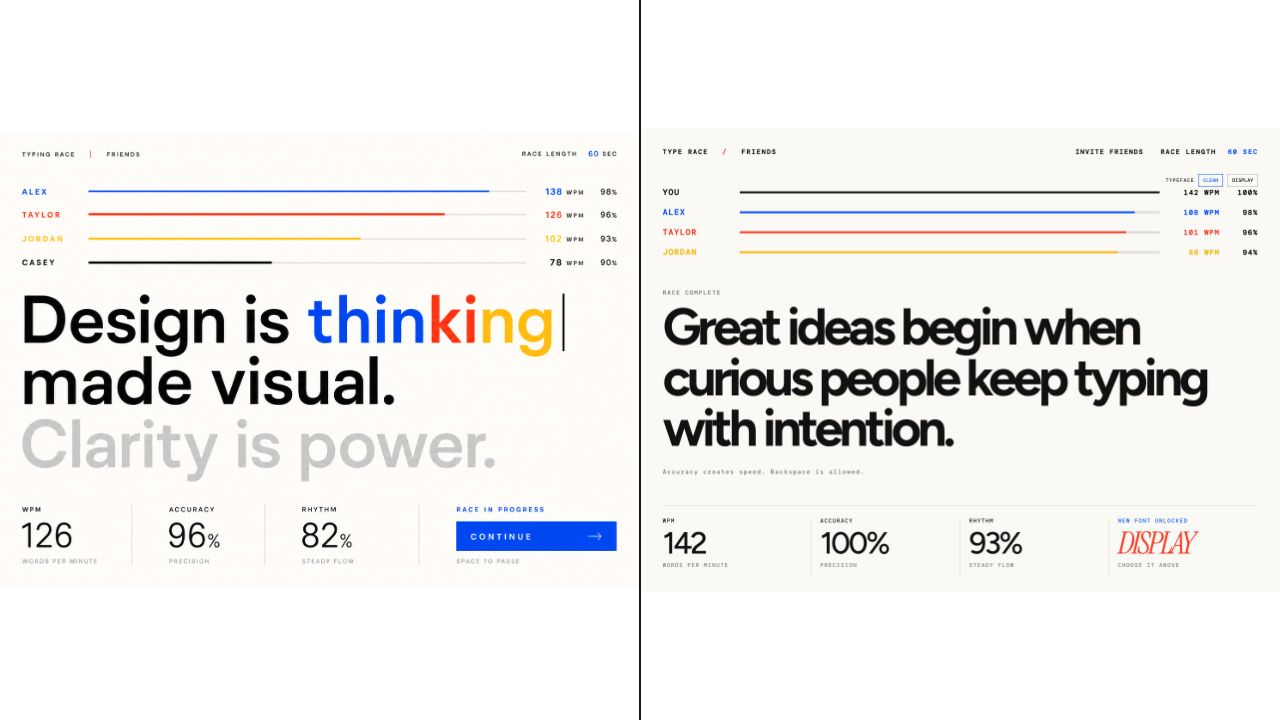
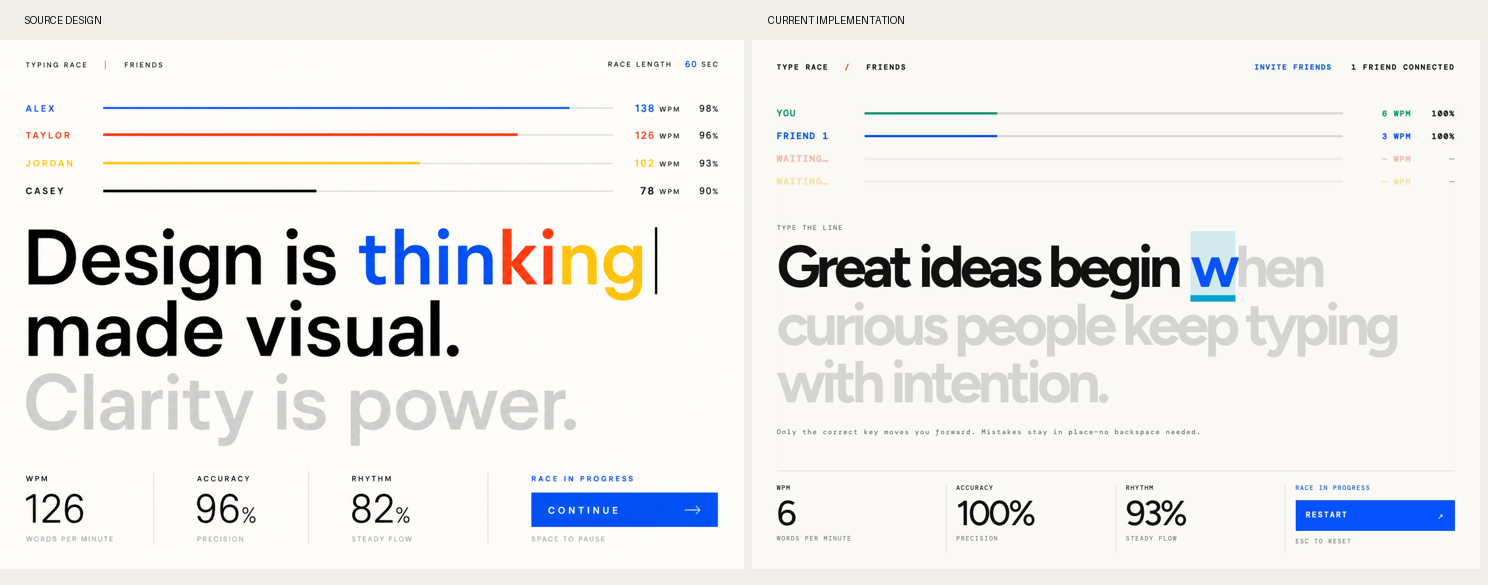
Fix mobile typing and blend overlapping racers

diff --git a/src/App.jsx b/src/App.jsx
@@ -3,7 +3,38 @@ import { Peer } from "peerjs";
 
 const COPY = "Great ideas begin when curious people keep typing with intention.";
 const MAX_FRIENDS = 3;
-const LANE_COLORS = ["blue", "red", "yellow"];
+const PLAYER_COLORS = ["#00a878", "#075cff", "#fa432a", "#f5bf00"];
+
+function hexToHsv(hex) {
+  const [r, g, b] = hex.match(/[a-f\d]{2}/gi).map((value) => parseInt(value, 16) / 255);
+  const max = Math.max(r, g, b);
+  const min = Math.min(r, g, b);
+  const delta = max - min;
+  let hue = 0;
+  if (delta) {
+    if (max === r) hue = ((g - b) / delta) % 6;
+    else if (max === g) hue = (b - r) / delta + 2;
+    else hue = (r - g) / delta + 4;
+  }
+  return { h: ((hue * 60) + 360) % 360, s: max ? delta / max : 0, v: max };
+}
+
+function hsvToHex({ h, s, v }) {
+  const chroma = v * s;
+  const section = h / 60;
+  const x = chroma * (1 - Math.abs((section % 2) - 1));
+  const [r1, g1, b1] = section < 1 ? [chroma, x, 0] : section < 2 ? [x, chroma, 0] : section < 3 ? [0, chroma, x] : section < 4 ? [0, x, chroma] : section < 5 ? [x, 0, chroma] : [chroma, 0, x];
+  const m = v - chroma;
+  return `#${[r1, g1, b1].map((channel) => Math.round((channel + m) * 255).toString(16).padStart(2, "0")).join("")}`;
+}
+
+function mixHsv(colors) {
+  if (colors.length === 1) return colors[0];
+  const values = colors.map(hexToHsv);
+  const radians = values.map(({ h }) => h * Math.PI / 180);
+  const hue = (Math.atan2(radians.reduce((sum, angle) => sum + Math.sin(angle), 0), radians.reduce((sum, angle) => sum + Math.cos(angle), 0)) * 180 / Math.PI + 360) % 360;
+  return hsvToHex({ h: hue, s: values.reduce((sum, color) => sum + color.s, 0) / values.length, v: values.reduce((sum, color) => sum + color.v, 0) / values.length });
+}
 
 function score(text, startedAt, errors) {
   const minutes = Math.max((Date.now() - startedAt) / 60000, 1 / 60000);
@@ -14,7 +45,7 @@ function score(text, startedAt, errors) {
 }
 
 function blankFriend(index) {
-  return { id: `waiting-${index}`, name: "WAITING…", progress: 0, wpm: "—", accuracy: "—", waiting: true };
+  return { id: `waiting-${index}`, name: "WAITING…", progress: 0, wpm: "—", accuracy: "—", color: PLAYER_COLORS[index + 1], waiting: true };
 }
 
 export function App() {
@@ -29,6 +60,7 @@ export function App() {
   const [friends, setFriends] = useState([]);
   const [inviteUrl, setInviteUrl] = useState(roomId ? window.location.href : "");
   const [roomStatus, setRoomStatus] = useState(roomId ? "JOINING ROOM" : "READY TO HOST");
+  const [selfColor, setSelfColor] = useState(PLAYER_COLORS[0]);
   const inputRef = useRef(null);
   const peerRef = useRef(null);
   const connectionsRef = useRef(new Map());
@@ -40,8 +72,8 @@ export function App() {
   localStateRef.current = { progress, wpm: current.wpm, accuracy: current.accuracy, finished };
 
   function hostRoster() {
-    const guests = [...connectionsRef.current.values()].map(({ id, name, state }) => ({ id, name, ...state }));
-    return [{ id: "host", name: "HOST", ...localStateRef.current }, ...guests];
+    const guests = [...connectionsRef.current.values()].map(({ id, name, color, state }) => ({ id, name, color, ...state }));
+    return [{ id: "host", name: "HOST", color: PLAYER_COLORS[0], ...localStateRef.current }, ...guests];
   }
 
   function broadcastRoster() {
@@ -67,10 +99,11 @@ export function App() {
           id: connection.peer,
           slot,
           name: `FRIEND ${slot}`,
+          color: PLAYER_COLORS[slot],
           connection,
           state: { progress: 0, wpm: 0, accuracy: 100, finished: false },
         });
-        connection.send({ type: "welcome", selfId: connection.peer });
+        connection.send({ type: "welcome", selfId: connection.peer, color: PLAYER_COLORS[slot] });
         const count = connectionsRef.current.size;
         setRoomStatus(`${count} FRIEND${count === 1 ? "" : "S"} CONNECTED`);
         broadcastRoster();
@@ -90,6 +123,7 @@ export function App() {
         }
       } else if (!isHost && message.type === "welcome") {
         selfIdRef.current = message.selfId;
+        setSelfColor(message.color);
       } else if (!isHost && message.type === "roster") {
         setFriends(message.roster.filter((racer) => racer.id !== selfIdRef.current));
       } else if (!isHost && message.type === "full") {
@@ -224,10 +258,18 @@ export function App() {
   const visibleFriends = [...friends.slice(0, MAX_FRIENDS)];
   while (visibleFriends.length < MAX_FRIENDS) visibleFriends.push(blankFriend(visibleFriends.length));
 
+  const positions = new Map();
+  function addPosition(index, color, name) {
+    const position = Math.min(COPY.length - 1, Math.max(0, index));
+    positions.set(position, [...(positions.get(position) || []), { color, name }]);
+  }
+  addPosition(typed.length, selfColor, "YOU");
+  friends.filter((friend) => !friend.waiting).forEach((friend) => addPosition(Math.round((friend.progress / 100) * COPY.length), friend.color, friend.name));
+
   return <main className={`app font-${font}`} onClick={begin}>
     <header><div className="brand">TYPE RACE <span>/</span> FRIENDS</div><div className="header-actions"><button className="text-button" data-invite-url={inviteUrl || undefined} onClick={(event) => { event.stopPropagation(); shareRoom(); }}>{copied ? "LINK COPIED" : roomId ? "COPY ROOM LINK" : "INVITE FRIENDS"}</button><div className="race-length">{roomStatus}</div></div></header>
-    <section className="raceboard" aria-label="Friend race standings"><div className="racer you"><span>YOU</span><div><i style={{ width: `${progress}%` }} /></div><b>{current.wpm || "—"} WPM</b><em>{current.accuracy}%</em></div>{visibleFriends.map((racer, index) => <div className={`racer ${LANE_COLORS[index]} ${racer.waiting ? "waiting" : ""}`} key={racer.id}><span>{racer.name}</span><div><i style={{ width: `${racer.progress}%` }} /></div><b>{racer.wpm || "—"} WPM</b><em>{racer.accuracy === "—" ? "—" : `${racer.accuracy}%`}</em></div>)}</section>
-    <section className="typing-zone" aria-label="Typing challenge"><p className="eyebrow">{finished ? "RACE COMPLETE" : startedAt ? "TYPE THE LINE" : "PRESS ANY KEY TO START"}</p><div className="copy" aria-hidden="true">{COPY.split("").map((letter, index) => { const state = index < typed.length ? "correct" : index === typed.length ? "cursor" : "future"; return <span key={`${letter}-${index}`} className={state}>{letter}</span>; })}</div><input ref={inputRef} className="typing-input" value={typed} onChange={type} onFocus={begin} aria-label="Type the displayed sentence" autoComplete="off" autoCapitalize="off" spellCheck="false" /><p className="quiet">Only the correct key moves you forward. Mistakes stay in place—no backspace needed.</p></section>
+    <section className="raceboard" aria-label="Friend race standings"><div className="racer you" style={{ "--lane": selfColor }}><span>YOU</span><div><i style={{ width: `${progress}%` }} /></div><b>{current.wpm || "—"} WPM</b><em>{current.accuracy}%</em></div>{visibleFriends.map((racer) => <div className={`racer ${racer.waiting ? "waiting" : ""}`} style={{ "--lane": racer.color }} key={racer.id}><span>{racer.name}</span><div><i style={{ width: `${racer.progress}%` }} /></div><b>{racer.wpm || "—"} WPM</b><em>{racer.accuracy === "—" ? "—" : `${racer.accuracy}%`}</em></div>)}</section>
+    <section className="typing-zone" aria-label="Typing challenge"><p className="eyebrow">{finished ? "RACE COMPLETE" : startedAt ? "TYPE THE LINE" : "PRESS ANY KEY TO START"}</p><div className="copy" aria-hidden="true">{COPY.split("").map((letter, index) => { const racersHere = positions.get(index) || []; const classes = [index < typed.length ? "correct" : "future"]; if (index === typed.length) classes.push("target"); if (index === typed.length - 1) classes.push("caret"); if (index === 0 && typed.length === 0) classes.push("cursor-start"); if (racersHere.length) classes.push("player-position"); if (racersHere.length > 1) classes.push("overlap"); return <span key={`${letter}-${index}`} className={classes.join(" ")} data-racers-here={racersHere.map(({ name }) => name).join(", ") || undefined} style={racersHere.length ? { "--position-color": mixHsv(racersHere.map(({ color }) => color)) } : undefined}>{letter}</span>; })}</div><input ref={inputRef} className="typing-input" value={typed} onChange={type} onFocus={begin} aria-label="Type the displayed sentence" autoComplete="off" autoCapitalize="off" autoCorrect="off" inputMode="text" enterKeyHint="done" spellCheck="false" /><p className="quiet">Only the correct key moves you forward. Mistakes stay in place—no backspace needed.</p></section>
     <footer><div className="metric"><small>WPM</small><strong>{current.wpm || "—"}</strong><span>WORDS PER MINUTE</span></div><div className="metric"><small>ACCURACY</small><strong>{current.accuracy}%</strong><span>PRECISION</span></div><div className="metric"><small>RHYTHM</small><strong>{startedAt ? `${Math.max(0, 93 - errors * 4)}%` : "—"}</strong><span>STEADY FLOW</span></div><div className="metric action-metric">{finished ? <><small>NEW FONT UNLOCKED</small><strong className="unlock">DISPLAY</strong><span>CHOOSE IT ABOVE</span></> : <><small>RACE IN PROGRESS</small><button onClick={(event) => { event.stopPropagation(); restart(); }}>RESTART <span>↗</span></button><span>ESC TO RESET</span></>}</div></footer>
     {unlocked && <aside className="font-picker" aria-label="Unlocked fonts"><span>TYPEFACE</span><button className={font === "clean" ? "active" : ""} onClick={() => setFont("clean")}>CLEAN</button><button className={font === "display" ? "active" : ""} onClick={() => setFont("display")}>DISPLAY</button></aside>}
   </main>;

diff --git a/src/styles.css b/src/styles.css
@@ -12,7 +12,7 @@ body {
   -webkit-font-smoothing: antialiased;
 }
 
-button { font: inherit; }.app { min-height: 100vh; padding: 40px 3.4vw 28px; background: #fbfaf7; display: flex; flex-direction: column; overflow: hidden; }header { display: flex; justify-content: space-between; align-items: center; font: 600 13px/1 "DM Mono", monospace; letter-spacing: .18em; }.brand span { color: #fa432a; padding: 0 18px; }.header-actions { display: flex; gap: 28px; align-items: center; }.race-length strong { color: #075cff; margin-left: 13px; }.text-button { background: transparent; border: 0; color: #101010; letter-spacing: .15em; font: inherit; cursor: pointer; }.text-button:hover { color: #075cff; }.raceboard { margin-top: 66px; display: grid; gap: 24px; }.racer { --lane: #111; display: grid; grid-template-columns: 132px 1fr 98px 55px; gap: 22px; align-items: center; font: 600 16px/1 "DM Mono", monospace; letter-spacing: .12em; }.racer > span { color: var(--lane); }.racer > div { height: 4px; background: #dededb; position: relative; }.racer i { position: absolute; inset: 0 auto 0 0; background: var(--lane); }.racer b { color: var(--lane); font-size: 14px; text-align: right; }.racer em { font-style: normal; text-align: right; font-size: 14px; }.racer.blue { --lane: #075cff; }.racer.red { --lane: #fa432a; }.racer.yellow { --lane: #f5bf00; }.typing-zone { flex: 1; display: flex; flex-direction: column; justify-content: center; padding: 55px 0 50px; }.eyebrow, .quiet { font: 500 12px/1 "DM Mono", monospace; letter-spacing: .15em; color: #777; }.copy { max-width: 1200px; font-size: clamp(54px, 8.1vw, 142px); line-height: .98; font-weight: 700; letter-spacing: -.075em; overflow-wrap: anywhere; }.copy span.correct { color: #101010; }.copy span.wrong { color: #fa432a; text-decoration: underline; text-decoration-thickness: .04em; }.copy span.future { color: #d9d9d7; }.copy span.cursor { color: #075cff; border-right: .055em solid #075cff; animation: blink .85s step-end infinite; }.typing-input { position: absolute; width: 1px; height: 1px; opacity: 0; pointer-events: none; }.quiet { margin-top: 30px; }footer { display: grid; grid-template-columns: repeat(4, 1fr); border-top: 1px solid #dcdcd8; padding-top: 24px; }.metric { min-height: 120px; padding: 0 5.8%; border-right: 1px solid #dcdcd8; display: flex; flex-direction: column; align-items: flex-start; }.metric:first-child { padding-left: 0; }.metric:last-child { border: 0; padding-right: 0; }.metric small, .metric span { font: 500 11px/1 "DM Mono", monospace; letter-spacing: .15em; }.metric strong { font-size: clamp(42px, 4.8vw, 75px); line-height: .95; letter-spacing: -.07em; font-weight: 500; margin: 10px 0; }.metric span { color: #888; }.action-metric small { color: #075cff; }.action-metric button { margin: 16px 0 13px; width: 100%; border: 0; background: #075cff; color: white; padding: 18px; text-align: left; font: 600 14px/1 "DM Mono", monospace; letter-spacing: .16em; cursor: pointer; }.action-metric button span { float: right; color: white; font-size: 18px; }.unlock { color: #fa432a; font-family: "Instrument Serif", Georgia, serif; font-style: italic; }.font-picker { position: fixed; top: 92px; right: 3.4vw; display: flex; gap: 8px; align-items: center; font: 500 10px/1 "DM Mono", monospace; letter-spacing: .12em; }.font-picker button { border: 1px solid #bbb; background: #fbfaf7; padding: 7px 9px; cursor: pointer; font: inherit; }.font-picker button.active { border-color: #075cff; color: #075cff; }.font-display .copy { font-family: "Instrument Serif", Georgia, serif; letter-spacing: -.055em; font-weight: 400; }@keyframes blink { 50% { border-color: transparent; } }@media (max-width: 720px) { .app { padding: 25px 20px 20px; }.header-actions .text-button { display: none; }.raceboard { margin-top: 45px; gap: 17px; }.racer { grid-template-columns: 72px 1fr 65px; gap: 10px; font-size: 11px; }.racer em { display: none; }.racer b { font-size: 10px; }.typing-zone { padding: 45px 0; }.copy { font-size: clamp(48px, 14.5vw, 78px); }.quiet { line-height: 1.5; } footer { grid-template-columns: repeat(2, 1fr); gap: 25px 0; }.metric { min-height: 88px; padding: 0 12%; }.metric:nth-child(3) { padding-left: 0; }.metric:nth-child(2) { border-right: 0; }.metric strong { font-size: 46px; }.font-picker { top: 70px; right: 20px; } }
+button { font: inherit; }.app { min-height: 100vh; padding: 40px 3.4vw 28px; background: #fbfaf7; display: flex; flex-direction: column; overflow: hidden; }header { display: flex; justify-content: space-between; align-items: center; font: 600 13px/1 "DM Mono", monospace; letter-spacing: .18em; }.brand span { color: #fa432a; padding: 0 18px; }.header-actions { display: flex; gap: 28px; align-items: center; }.race-length strong { color: #075cff; margin-left: 13px; }.text-button { background: transparent; border: 0; color: #101010; letter-spacing: .15em; font: inherit; cursor: pointer; }.text-button:hover { color: #075cff; }.raceboard { margin-top: 66px; display: grid; gap: 24px; }.racer { --lane: #111; display: grid; grid-template-columns: 132px 1fr 98px 55px; gap: 22px; align-items: center; font: 600 16px/1 "DM Mono", monospace; letter-spacing: .12em; }.racer > span { color: var(--lane); }.racer > div { height: 4px; background: #dededb; position: relative; }.racer i { position: absolute; inset: 0 auto 0 0; background: var(--lane); }.racer b { color: var(--lane); font-size: 14px; text-align: right; }.racer em { font-style: normal; text-align: right; font-size: 14px; }.typing-zone { position: relative; flex: 1; display: flex; flex-direction: column; justify-content: center; padding: 55px 0 50px; }.eyebrow, .quiet { font: 500 12px/1 "DM Mono", monospace; letter-spacing: .15em; color: #777; }.copy { max-width: 1200px; font-size: clamp(54px, 8.1vw, 142px); line-height: .98; font-weight: 700; letter-spacing: -.075em; overflow-wrap: anywhere; }.copy span { position: relative; }.copy span.correct { color: #101010; }.copy span.future { color: #d9d9d7; }.copy span.target { color: #075cff; background: color-mix(in srgb, var(--position-color, #075cff) 16%, transparent); box-shadow: inset 0 -.08em 0 var(--position-color, #075cff); }.copy span.player-position:not(.target) { background: color-mix(in srgb, var(--position-color) 12%, transparent); box-shadow: inset 0 -.055em 0 var(--position-color); }.copy span.overlap { box-shadow: inset 0 -.11em 0 var(--position-color); }.copy span.caret { border-right: .055em solid var(--position-color, #075cff); animation: blink .85s step-end infinite; }.copy span.cursor-start { border-left: .055em solid var(--position-color, #075cff); animation: blink .85s step-end infinite; }.typing-input { position: absolute; inset: 0; z-index: 2; width: 100%; height: 100%; opacity: .01; border: 0; padding: 0; background: transparent; color: transparent; caret-color: transparent; font-size: 16px; pointer-events: auto; touch-action: manipulation; }.quiet { margin-top: 30px; }footer { display: grid; grid-template-columns: repeat(4, 1fr); border-top: 1px solid #dcdcd8; padding-top: 24px; }.metric { min-height: 120px; padding: 0 5.8%; border-right: 1px solid #dcdcd8; display: flex; flex-direction: column; align-items: flex-start; }.metric:first-child { padding-left: 0; }.metric:last-child { border: 0; padding-right: 0; }.metric small, .metric span { font: 500 11px/1 "DM Mono", monospace; letter-spacing: .15em; }.metric strong { font-size: clamp(42px, 4.8vw, 75px); line-height: .95; letter-spacing: -.07em; font-weight: 500; margin: 10px 0; }.metric span { color: #888; }.action-metric small { color: #075cff; }.action-metric button { margin: 16px 0 13px; width: 100%; border: 0; background: #075cff; color: white; padding: 18px; text-align: left; font: 600 14px/1 "DM Mono", monospace; letter-spacing: .16em; cursor: pointer; }.action-metric button span { float: right; color: white; font-size: 18px; }.unlock { color: #fa432a; font-family: "Instrument Serif", Georgia, serif; font-style: italic; }.font-picker { position: fixed; top: 92px; right: 3.4vw; display: flex; gap: 8px; align-items: center; font: 500 10px/1 "DM Mono", monospace; letter-spacing: .12em; }.font-picker button { border: 1px solid #bbb; background: #fbfaf7; padding: 7px 9px; cursor: pointer; font: inherit; }.font-picker button.active { border-color: #075cff; color: #075cff; }.font-display .copy { font-family: "Instrument Serif", Georgia, serif; letter-spacing: -.055em; font-weight: 400; }@keyframes blink { 50% { border-color: transparent; } }@media (max-width: 720px) { .app { padding: 25px 20px 20px; }.header-actions .text-button { display: none; }.raceboard { margin-top: 45px; gap: 17px; }.racer { grid-template-columns: 72px 1fr 65px; gap: 10px; font-size: 11px; }.racer em { display: none; }.racer b { font-size: 10px; }.typing-zone { padding: 45px 0; }.copy { font-size: clamp(48px, 14.5vw, 78px); }.quiet { line-height: 1.5; } footer { grid-template-columns: repeat(2, 1fr); gap: 25px 0; }.metric { min-height: 88px; padding: 0 12%; }.metric:nth-child(3) { padding-left: 0; }.metric:nth-child(2) { border-right: 0; }.metric strong { font-size: 46px; }.font-picker { top: 70px; right: 20px; } }
 
 .mobile-prototype {
   width: min(100vw, 390px);
@@ -24,4 +24,19 @@ button { font: inherit; }.app { min-height: 100vh; padding: 40px 3.4vw 28px; bac
 
 .racer.waiting {
   opacity: .36;
+}
+
+@media (max-width: 720px) {
+  .header-actions {
+    gap: 10px;
+  }
+
+  .header-actions .text-button {
+    display: block;
+    font-size: 9px;
+  }
+
+  .race-length {
+    font-size: 9px;
+  }
 }

diff --git a/design-qa.md b/design-qa.md
@@ -2,35 +2,42 @@
 
 ## Evidence
 
-- Source visual truth: `/Users/tim/.codex/generated_images/01a02368-850b-79d2-bc79-8b2e07695ff4/exec-48af3866-8453-4cef-a6e6-c34cb0d960c4.png`
+- Source visual truth: `reference/selected-design.png`
 - Implementation screenshot: `implementation-active.png`
 - Same-input comparison: `design-comparison.png`
-- Source pixels: 1487 x 1058. Implementation pixels / CSS viewport: 1280 x 930 at 1x. The comparison image uses contain-fit normalisation to put both full views into adjacent equal 640 x 720 panels.
-- Compared state: an active typing race with an entered prefix and the caret visible.
-- Interaction checks: keyboard entry, live WPM/accuracy/rhythm updates, wrong-character state, restart, completion unlock, and font switcher. Browser console errors: none.
+- Source pixels: 1487 x 1058. Implementation pixels / CSS viewport: 1280 x 930 at 1x. The comparison uses contain-fit normalization in adjacent 744 x 529 panels.
+- Compared state: a live two-player race with both players overlapping on the same expected character.
+- Focused interaction evidence: the transparent typing input measured 350 x 499 CSS px in a 390 px mobile-width browser pass, accepted focus from a typing-panel click, exposed `inputMode=text` at 16 px, rejected an incorrect key without advancing, and synchronized progress between host and guest.
+- Console errors checked after the final multiplayer and input passes: none.
 
 **Findings**
 
-- No actionable P0, P1, or P2 differences.
-- [P3] The implementation uses a slightly heavier geometric sans and a different sentence from the concept. This is intentional: Figtree is a freely available, IKEA-inspired functional default, and the sentence gives the game its own content while preserving the source hierarchy, scale, and colour treatment.
-- [P3] The implementation adds an explicit player lane and an invite action. These are intentional functional additions needed for keyboard play and the requested friend-race flow; they retain the source's thin, text-only progress treatment.
+- No actionable P0, P1, or P2 differences remain.
+- [P3] The implementation uses a slightly heavier geometric sans and game-specific sentence. This remains an intentional product adaptation of the reference hierarchy.
+- [P3] Live room status, waiting lanes, and the invite action add functional information not present in the static concept while preserving its type-led density.
 
 ## Required Fidelity Surfaces
 
-- Fonts and typography: passed. The oversized active copy, monospaced labels, tight tracking, strong weight contrast, and optional unlocked display face preserve the target's typographic hierarchy.
-- Spacing and layout rhythm: passed. The warm full-canvas layout retains the header, four slim race lanes, large central typing space, and four-part metric rail.
-- Colors and visual tokens: passed. Off-white base, black active type, pale future type, cobalt action/focus, tomato and yellow progress lanes map directly to the selected direction.
-- Image quality and asset fidelity: passed. The selected design contains no required imagery, illustrations, logos, or avatars; the implementation introduces none.
-- Copy and content: passed. Product copy is game-specific while preserving the reference's role and visual density.
+- Fonts and typography: passed. Oversized active copy, compact monospaced labels, tight tracking, and the unlocked display face preserve the reference hierarchy.
+- Spacing and layout rhythm: passed. The warm full-canvas layout retains the header, four thin race lanes, central typing field, and four-part metric rail.
+- Colors and visual tokens: passed. The off-white, black, cobalt, tomato, and yellow palette remains intact; self green and HSV overlap cyan extend it coherently for live presence.
+- Image quality and asset fidelity: passed. The design contains no required imagery or icons, and none were introduced.
+- Copy and content: passed. Game-specific status and instruction copy remain short and visually subordinate.
+
+## Comparison History
+
+1. Earlier implementation used a 1 px input with `pointer-events: none`, placed the caret after the expected letter, and did not expose overlapping player positions.
+2. The input became a full-panel direct tap target, the caret moved to the previous character edge, the expected character gained a tinted underline, and shared positions gained HSV color mixing.
+3. Post-fix browser evidence confirmed focusable mobile geometry, error-gated typing, bidirectional multiplayer updates, cyan `#03add3` for green/blue overlap, and no console errors.
 
 ## Implementation Checklist
 
-1. Keep the keyboard input as the primary interaction surface.
-2. Keep real-time multiplayer as a future backend upgrade; the current invite link supports a shareable mock room and live local race presentation.
-3. Preserve the font-unlock interaction when adding more typefaces.
+1. Preserve the full-panel mobile input target.
+2. Keep the expected-character highlight and preceding caret paired.
+3. Keep player colors attached to room identities and blend only when positions coincide.
 
 ## Follow-up Polish
 
-- Add hosted room synchronization and player presence when a backend choice is made.
+- Test the deployed build on physical iOS Safari and Pixel Chrome because desktop browser emulation cannot prove virtual-keyboard behavior on those devices.
 
 final result: passed

diff --git a/AGENTS.md b/AGENTS.md
@@ -13,5 +13,7 @@ When implementing from a selected generated mock, treat that image as the source
 - Default to an IKEA-inspired freely licensed geometric sans; winning a race unlocks an alternate display font.
 - Typing is error-gated: an incorrect key does not advance the cursor, and Backspace is unnecessary and does not move progress backward.
 - Friend races use shareable peer-to-peer rooms with one host and up to three live guests; never show simulated racers as if they were connected players.
+- The full typing panel must remain a direct mobile input target so iPhone and Chromium keyboards can open from a tap.
+- Put the caret immediately before the expected character, highlight that character clearly, and HSV-blend player colors at shared character positions (green plus blue should read as cyan).
 
 Build app UI in `src/`. Keep `.openai/hosting.json`, `worker/index.js`, `scripts/prepare-sites-build.mjs`, and `tests/sites-worker.test.mjs` intact so the same local prototype can be handed to Sites. Before a Sites handoff, run `npm run build` and `npm run test:sites`; the build must leave `dist/client/index.html`, `dist/server/index.js`, and `dist/.openai/hosting.json`.
